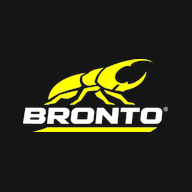
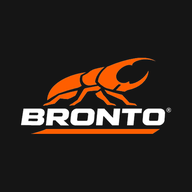
feat(branding): update theme to black, graphite, and industrial orange; fix double header overlap on /app across desktop and iOS

Changed region(s): [[0.0938, 0.2812, 0.9062, 0.7188]]

diff --git a/src/app/app/page.tsx b/src/app/app/page.tsx
@@ -234,8 +234,8 @@ export default function BrontoAppPage() {
             {/* Logo e Identidad App */}
             <div className="flex items-center gap-2.5">
               <Link href="/" className="flex items-center gap-2 group" title="Ir al portal principal de BRONTO®">
-                <div className="w-9 h-9 bg-bronto-yellow text-[#151515] flex items-center justify-center font-black rounded-sm shadow-md group-hover:scale-105 transition-transform">
-                  <DynastesBeetleSymbol className="w-6 h-6" colorFill="#151515" />
+                <div className="w-9 h-9 bg-[#1A1A1E] border border-[#2E2E34] text-bronto-yellow flex items-center justify-center font-black rounded-sm shadow-md group-hover:scale-105 transition-transform">
+                  <DynastesBeetleSymbol className="w-6 h-6" />
                 </div>
                 <div>
                   <div className="flex items-center gap-1.5">
@@ -254,7 +254,7 @@ export default function BrontoAppPage() {
             <div className="flex items-center gap-2">
               <button
                 onClick={handleInstallClick}
-                className="inline-flex items-center gap-1.5 px-3 py-1.5 bg-gradient-to-r from-bronto-yellow to-[#FED800] hover:to-white text-[#151515] font-black text-xs uppercase tracking-wider rounded-sm shadow-lg shadow-bronto-yellow/20 active:scale-95 transition-all"
+                className="inline-flex items-center gap-1.5 px-3 py-1.5 bg-gradient-to-r from-bronto-yellow to-[#FF7A1A] hover:to-white text-[#151515] font-black text-xs uppercase tracking-wider rounded-sm shadow-lg shadow-bronto-yellow/20 active:scale-95 transition-all"
                 title="Descargar e instalar en tu celular"
               >
                 <Download className="w-3.5 h-3.5 stroke-[3]" />
@@ -479,7 +479,7 @@ export default function BrontoAppPage() {
                           <div className="mt-3 flex items-center gap-2">
                             <button
                               onClick={() => handleAddProduct(product, "30 días")}
-                              className="flex-1 py-1.5 px-2 bg-bronto-yellow hover:bg-[#FED800] text-[#151515] font-black text-[11px] uppercase tracking-wider rounded-sm flex items-center justify-center gap-1 transition-all active:scale-95"
+                              className="flex-1 py-1.5 px-2 bg-bronto-yellow hover:bg-[#FF7A1A] text-[#151515] font-black text-[11px] uppercase tracking-wider rounded-sm flex items-center justify-center gap-1 transition-all active:scale-95"
                             >
                               <Plus className="w-3.5 h-3.5 stroke-[3]" />
                               <span>Agregar</span>

diff --git a/src/components/common/Header.tsx b/src/components/common/Header.tsx
@@ -50,6 +50,15 @@ export const Header: React.FC = () => {
     return pathname.startsWith(href);
   };
 
+  // Si estamos en la aplicación PWA (/app), el Header corporativo no se renderiza
+  if (
+    pathname === "/app" ||
+    pathname?.startsWith("/app/") ||
+    (typeof window !== "undefined" && (window.location.pathname === "/app" || window.location.pathname.startsWith("/app")))
+  ) {
+    return null;
+  }
+
   return (
     <header
       className={`fixed top-0 left-0 right-0 z-50 transition-all duration-200 ${
@@ -99,7 +108,7 @@ export const Header: React.FC = () => {
             {/* Acceso a App PWA: Renta & Cursos */}
             <Link
               href="/app"
-              className="inline-flex items-center gap-1.5 px-3 py-2 bg-gradient-to-r from-bronto-yellow to-[#FED800] hover:to-white text-[#151515] text-xs font-black uppercase tracking-wider rounded-none shadow-sm transition-all active:scale-95"
+              className="inline-flex items-center gap-1.5 px-3 py-2 bg-gradient-to-r from-bronto-yellow to-[#FF7A1A] hover:to-white text-[#151515] text-xs font-black uppercase tracking-wider rounded-none shadow-sm transition-all active:scale-95"
               title="Descargar e instalar la App de Renta de Equipos y Cursos"
             >
               <Smartphone className="w-3.5 h-3.5 stroke-[2.5]" />
@@ -221,7 +230,7 @@ export const Header: React.FC = () => {
             <div className="pt-4 flex flex-col gap-3">
               <Link
                 href="/app"
-                className="w-full flex items-center justify-center gap-2 py-3 bg-gradient-to-r from-bronto-yellow to-[#FED800] text-black font-black text-xs uppercase tracking-wider shadow-lg"
+                className="w-full flex items-center justify-center gap-2 py-3 bg-gradient-to-r from-bronto-yellow to-[#FF7A1A] text-black font-black text-xs uppercase tracking-wider shadow-lg"
               >
                 <Smartphone className="w-4 h-4 stroke-[2.5]" />
                 <span>Abrir / Descargar BRONTO App</span>

diff --git a/src/app/globals.css b/src/app/globals.css
@@ -3,16 +3,17 @@
 @tailwind utilities;
 
 :root {
-  /* BRONTO Paleta Cromática Industrial Oficial */
-  --bronto-yellow: #FEE123;
-  --bronto-yellow-hover: #E8CC0F;
+  /* BRONTO Paleta Cromática Industrial Oficial: Negro, Gris y Naranja */
+  --bronto-yellow: #FF5E00; /* Naranja industrial principal de alto impacto */
+  --bronto-yellow-hover: #E55400; /* Naranja en hover */
   --bronto-carbon: #111111;
   --bronto-graphite: #1C1C1C;
   --bronto-surface: #222222;
   --bronto-border: #2A2A2A;
   --bronto-gray: #999999;
   --bronto-gray-light: #CCCCCC;
-  --bronto-orange: #FF6511; /* Detalle reservado exclusivamente para el rayo ENERGYSOFT */
+  --bronto-orange: #FF5E00; /* Naranja institucional BRONTO */
+  --bronto-orange-hover: #E55400;
   
   --font-sans: -apple-system, BlinkMacSystemFont, "Segoe UI", Roboto, "Helvetica Neue", Arial, sans-serif;
   --font-heading: -apple-system, BlinkMacSystemFont, "Segoe UI", Roboto, "Helvetica Neue", Arial, sans-serif;
@@ -251,6 +252,6 @@ html:not(.dark) section[aria-label="Presentación principal BRONTO"] .text-white
   }
 
   .text-bronto-yellow {
-    color: #B59300 !important;
+    color: #FF5E00 !important;
   }
 }

diff --git a/src/components/common/SiteChrome.tsx b/src/components/common/SiteChrome.tsx
@@ -1,6 +1,6 @@
 "use client";
 
-import React from "react";
+import React, { useState, useEffect } from "react";
 import { usePathname } from "next/navigation";
 import { Header } from "./Header";
 import { Footer } from "./Footer";
@@ -9,7 +9,20 @@ import { PwaInstallPrompt } from "./PwaInstallPrompt";
 
 export const SiteChrome: React.FC<{ children: React.ReactNode }> = ({ children }) => {
   const pathname = usePathname();
-  const isApp = pathname === "/app" || pathname?.startsWith("/app/");
+  const [isClientApp, setIsClientApp] = useState(false);
+
+  useEffect(() => {
+    if (typeof window !== "undefined") {
+      const isPathApp = window.location.pathname === "/app" || window.location.pathname.startsWith("/app");
+      setIsClientApp(isPathApp);
+    }
+  }, [pathname]);
+
+  const isApp =
+    isClientApp ||
+    pathname === "/app" ||
+    pathname?.startsWith("/app/") ||
+    (typeof window !== "undefined" && (window.location.pathname === "/app" || window.location.pathname.startsWith("/app")));
 
   return (
     <>
@@ -23,3 +36,4 @@ export const SiteChrome: React.FC<{ children: React.ReactNode }> = ({ children }
     </>
   );
 };
+

diff --git a/src/components/common/WhatsAppButton.tsx b/src/components/common/WhatsAppButton.tsx
@@ -1,6 +1,7 @@
 "use client";
 
 import React from "react";
+import { usePathname } from "next/navigation";
 import { siteConfig } from "@/data/siteConfig";
 
 export const OfficialWhatsAppIcon: React.FC<{ className?: string }> = ({
@@ -20,6 +21,16 @@ export const OfficialWhatsAppIcon: React.FC<{ className?: string }> = ({
 };
 
 export const WhatsAppButton: React.FC = () => {
+  const pathname = usePathname();
+
+  if (
+    pathname === "/app" ||
+    pathname?.startsWith("/app/") ||
+    (typeof window !== "undefined" && (window.location.pathname === "/app" || window.location.pathname.startsWith("/app")))
+  ) {
+    return null;
+  }
+
   const defaultMessage = encodeURIComponent(
     `Hola BRONTO, me comunico desde la plataforma web para solicitar asesoría técnica y cotización de equipos para mi proyecto en Bogotá o la Sabana.`
   );

diff --git a/src/components/common/PwaInstallPrompt.tsx b/src/components/common/PwaInstallPrompt.tsx
@@ -1,6 +1,7 @@
 "use client";
 
 import React, { useState, useEffect } from "react";
+import { usePathname } from "next/navigation";
 import { Download, X, Smartphone } from "lucide-react";
 import { DynastesBeetleSymbol } from "./BrandLogo";
 
@@ -61,12 +62,20 @@ export const PwaInstallPrompt: React.FC = () => {
     setDeferredPrompt(null);
   };
 
+  const pathname = usePathname();
+
   const dismiss = () => {
     setIsDismissed(true);
     sessionStorage.setItem("bronto_pwa_dismissed", "true");
   };
 
-  if (isStandalone || isDismissed) {
+  if (
+    isStandalone ||
+    isDismissed ||
+    pathname === "/app" ||
+    pathname?.startsWith("/app/") ||
+    (typeof window !== "undefined" && (window.location.pathname === "/app" || window.location.pathname.startsWith("/app")))
+  ) {
     return null;
   }
 

diff --git a/src/app/nosotros/page.tsx b/src/app/nosotros/page.tsx
@@ -33,7 +33,7 @@ export default function AboutUsPage() {
         {/* Bloque Central: El Escarabajo Dynastes (Concepto de Marca) */}
         <div className="py-16 grid grid-cols-1 lg:grid-cols-12 gap-12 items-center">
           <div className="lg:col-span-5 bg-[#181818] border-2 border-bronto-yellow/30 p-10 flex flex-col items-center justify-center text-center relative overflow-hidden">
-            <DynastesBeetleSymbol className="w-36 h-36" colorFill="#FEE123" />
+            <DynastesBeetleSymbol className="w-36 h-36" colorFill="#FF5E00" />
             <span className="text-xs uppercase tracking-wider text-bronto-yellow font-bold mt-6">
               Símbolo Dynastes
             </span>

diff --git a/src/data/siteConfig.ts b/src/data/siteConfig.ts
@@ -33,6 +33,8 @@ export interface SiteConfig {
     url: string;
   };
   colors: {
+    industrialOrange?: string;
+    brandOrange?: string;
     industrialYellow: string;
     carbonBlack: string;
     graphite: string;
@@ -92,11 +94,13 @@ export const siteConfig: SiteConfig = {
     url: "https://energysoftmedia.com",
   },
   colors: {
-    industrialYellow: "#FEE123",
+    industrialOrange: "#FF5E00",
+    brandOrange: "#FF5E00",
+    industrialYellow: "#FF5E00",
     carbonBlack: "#151515",
     graphite: "#242424",
     white: "#FFFFFF",
     technicalGray: "#A6A6A6",
-    energeticOrange: "#FF6511",
+    energeticOrange: "#FF5E00",
   },
 };

diff --git a/tailwind.config.ts b/tailwind.config.ts
@@ -13,13 +13,14 @@ const config: Config = {
         bronto: {
           yellow: "var(--bronto-yellow)",
           "yellow-hover": "var(--bronto-yellow-hover)",
+          orange: "var(--bronto-orange)",
+          "orange-hover": "var(--bronto-orange-hover)",
           carbon: "var(--bronto-carbon)",
           graphite: "var(--bronto-graphite)",
           surface: "var(--bronto-surface)",
           border: "var(--bronto-border)",
           gray: "var(--bronto-gray)",
           "gray-light": "var(--bronto-gray-light)",
-          orange: "var(--bronto-orange)",
         },
       },
       fontFamily: {
